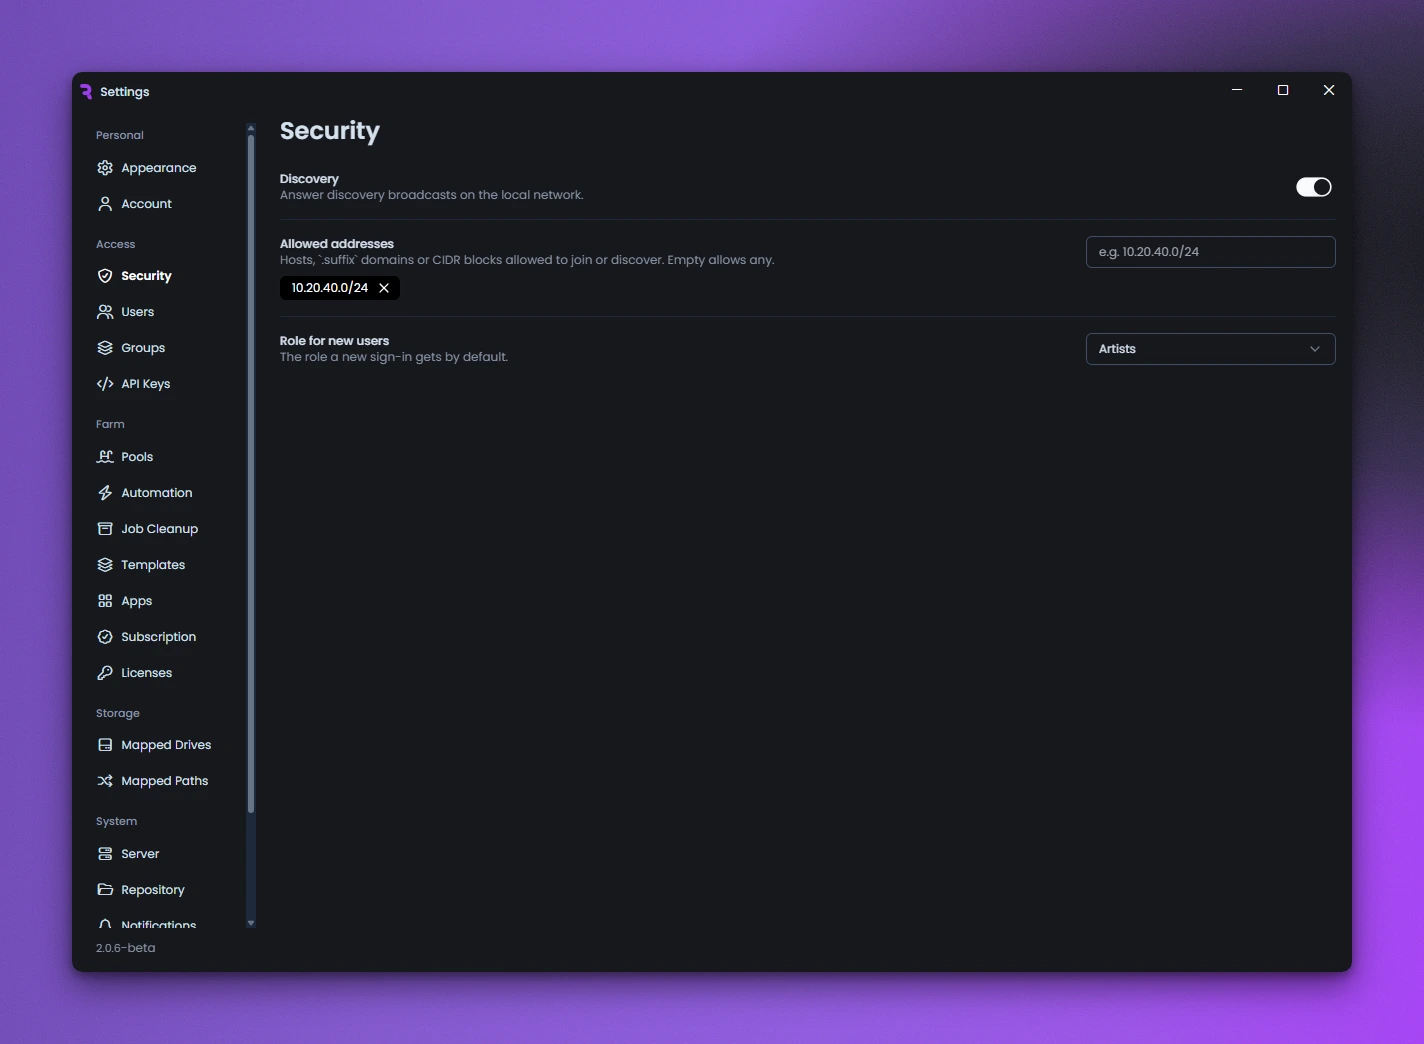
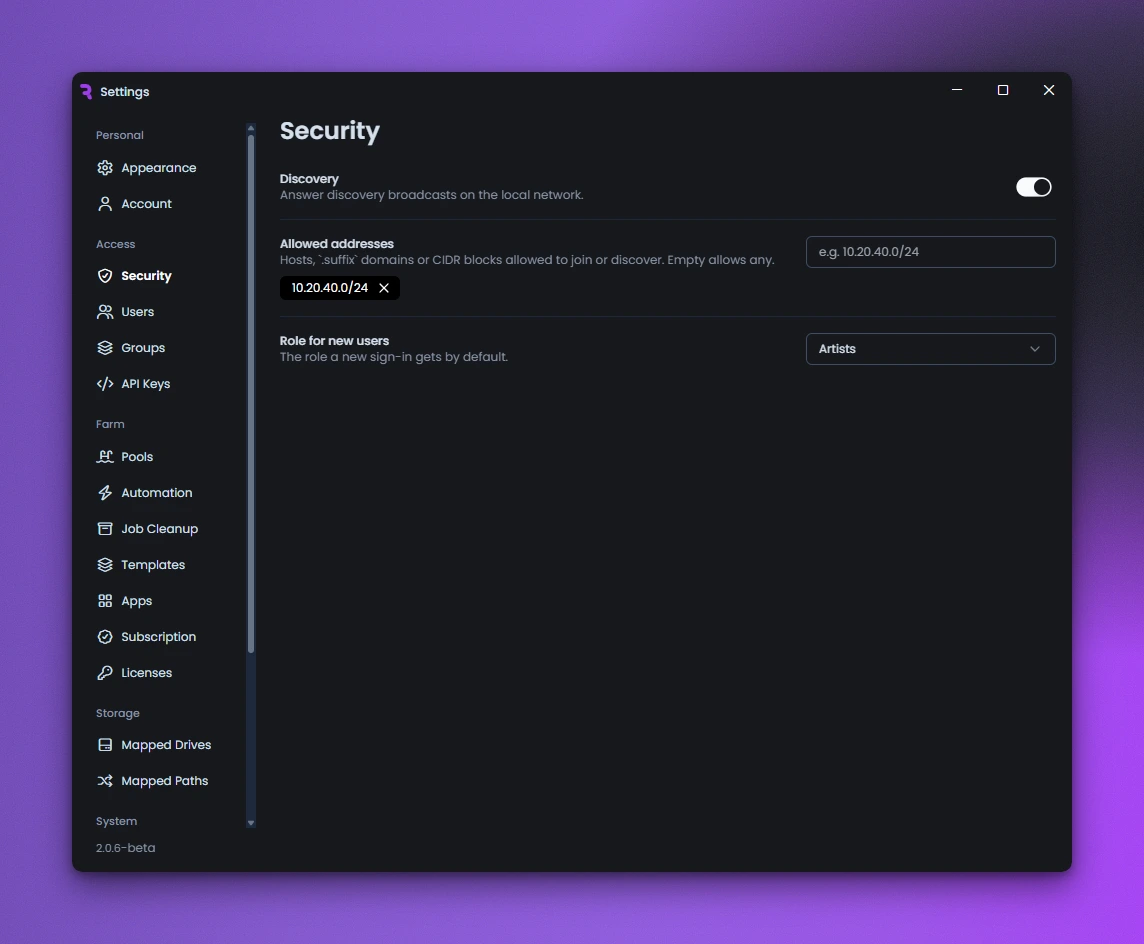
added offline licensing guide

diff --git a/renderflow/v2/getting-started/offline-licensing.md b/renderflow/v2/getting-started/offline-licensing.md
@@ -1,0 +1,129 @@
+---
+title: "Offline Licensing"
+description: "License a RenderFlow server that has no internet access with a license file from Pulze."
+"og:title": "RenderFlow Offline Licensing"
+"og:description": "Run a RenderFlow farm in an air-gapped network with a signed license file instead of a Pulze account sign-in."
+"twitter:title": "RenderFlow Offline Licensing"
+keywords: ['render farm offline license', 'air-gapped render farm', 'render farm without internet', 'RenderFlow license file', 'offline activation render farm', 'RenderFlow Enterprise license']
+---
+
+Offline licensing runs a RenderFlow server with no route to the internet. Instead of signing in to a Pulze account, the server holds a license file from Pulze that lists its seats and the machine it was issued for. Offline licensing is part of RenderFlow Enterprise. [Contact support](mailto:support@pulze.io) to set it up for your studio.
+
+Only the server holds the license. Render nodes and workstations join the server as usual and take their seats from it.
+
+## What you need
+
+- RenderFlow installed on the server, with the service stopped.
+- A terminal on the server: an administrator PowerShell on Windows, or the account the RenderFlow service runs as on Linux and macOS.
+
+## Request a license
+
+<Steps>
+<Step title="Create the request file">
+
+Run `rfsv license request` on the server.
+
+<Tabs>
+<Tab title="Windows">
+
+```powershell
+& "C:\Program Files\Pulze\RenderFlow\rfsv.exe" license request
+```
+
+</Tab>
+<Tab title="Linux">
+
+```bash
+/opt/Pulze/RenderFlow/rfsv license request
+```
+
+</Tab>
+<Tab title="macOS">
+
+```bash
+/Applications/Pulze/RenderFlow/rfsv license request
+```
+
+</Tab>
+</Tabs>
+
+RenderFlow writes `renderflow-<machine name>.req` to the current folder and prints the machine name, hardware ID and network adapter that the license will be issued for.
+
+<Frame caption="A license request created on the server">
+  <img src="/images/renderflow/v2/rf_cli_license_request.webp" alt="A terminal after rfsv license request, showing the path of the request file and the machine name, hardware ID and network adapter it was created for" />
+</Frame>
+
+</Step>
+<Step title="Send the request to Pulze">
+
+Email the `.req` file to [support@pulze.io](mailto:support@pulze.io). Pulze sends back a license file, `renderflow-<machine name>.lic`.
+
+</Step>
+</Steps>
+
+## Apply the license
+
+<Steps>
+<Step title="Import the license file">
+
+With the service stopped, run `rfsv license import` with the file Pulze sent you, for example on Linux:
+
+```bash
+/opt/Pulze/RenderFlow/rfsv license import renderflow-render-server.lic
+```
+
+RenderFlow prints `Licence applied` with your studio's name and the number of seats. While the service is running, the command refuses and points you to **Settings → Subscription** instead.
+
+</Step>
+<Step title="Check the license">
+
+Run `rfsv license status`. It prints the customer, the seats, the license ID and the expiry date.
+
+<Frame caption="The license applied and its status">
+  <img src="/images/renderflow/v2/rf_cli_license_import.webp" alt="A terminal showing rfsv license import reporting the license applied for Northlight VFX with 30 seats, followed by rfsv license status reporting a valid license and its expiry date" />
+</Frame>
+
+</Step>
+<Step title="Start the server">
+
+Start the RenderFlow service, or open the desktop app on the server. The setup wizard no longer asks you to sign in to Pulze, and the nodes that join take their seats from the license.
+
+</Step>
+</Steps>
+
+## Renew the license
+
+When Pulze sends you a new license file, open **Settings → Subscription** on the server, press **Apply license** and choose the `.lic` file. The service applies it straight away, with no restart.
+
+The **Offline** panel shows the seats the license holds, how many are in use, how many are free and when the license expires.
+
+<Frame caption="An offline license in Settings → Subscription">
+  <img src="/images/renderflow/v2/rf_settings_subscription_offline.webp" alt="The Subscription settings page showing the Offline panel with 30 seats, 0 in use, 30 free and an expiry date, with the Apply license and Remove license buttons" />
+</Frame>
+
+**Grace period.** A license keeps working for 30 days after its expiry date, and during those 30 days the **Offline** panel shows a warning with the expiry date. The server checks the license when it starts and once a day after that, and the first check after the grace period has ended stops it handing out seats: every machine stops rendering until a new license is applied.
+
+**Upgrades.** A license can carry a maintenance period. A RenderFlow release built after that period ends does not accept the license, so ask Pulze for a renewed license before you upgrade the server past it.
+
+## Replacing the server's hardware
+
+The license is issued for the server's hardware ID together with its machine name or its network adapter. Renaming the server, or replacing its network card, keeps the license working as long as the other one stays the same. A new motherboard or a new server machine needs a new license: run `rfsv license request` on that machine and send the new request to Pulze.
+
+## Switch back to a Pulze account
+
+To license the farm through a Pulze account again, open **Settings → Subscription**, press **Remove license** and confirm with **Remove**.
+
+<Frame caption="Removing the offline license">
+  <img src="/images/renderflow/v2/rf_settings_subscription_remove.webp" alt="The confirmation dialog for removing the offline license, explaining that every machine stops rendering until the server signs in to a Pulze account and its licenses are synced" />
+</Frame>
+
+<Warning>
+Every machine stops rendering until the server signs in under **Settings → Account** and its licenses are synced. From then on the server needs access to `*.pulze.io`, see [Internet access](/renderflow/v2/getting-started/requirements#internet-access).
+</Warning>
+
+With the service stopped, `rfsv license remove` does the same from a terminal.
+
+## Next steps
+
+- [System Requirements](/renderflow/v2/getting-started/requirements): ports, firewall and internet access
+- [Run as a Service](/renderflow/v2/getting-started/run-as-a-service): start the server on boot

diff --git a/renderflow/v2/getting-started/requirements.md b/renderflow/v2/getting-started/requirements.md
@@ -105,7 +105,27 @@ Only the server needs internet access; render nodes and workstations do not.
 
 Blocking `*.renderflow.com` costs you two optional conveniences and nothing more: email notifications sent through Pulze's relay, and the AI agent features. Slack, Teams, Discord and webhook notifications go straight to those services, and an email channel pointed at your own SMTP server is unaffected.
 
-RenderFlow can also run in a sealed environment with no route to the internet at all, on **offline licensing**. If that is your situation, [contact support](mailto:support@pulze.io) and we will set you up.
+### Behind a proxy
+
+Point the server at your proxy with `--proxy-host` and `--proxy-port` when you install it, adding `--proxy-user` and `--proxy-pass` if the proxy asks for credentials, and `--proxy-bypass` for internal hosts that must not go through it. [Silent Deployment](/renderflow/v2/getting-started/silent-deploy#installer-flags) lists every flag.
+
+**A proxy that inspects HTTPS.** Many corporate proxies decrypt HTTPS traffic and re-sign it with the company's own certificate authority. RenderFlow does not trust that authority on its own, so the server cannot reach Pulze and its log shows:
+
+```
+Failed to resolve https://backend.pulze.io, attempt 2/2: [GET] 'https://backend.pulze.io': unable to get local issuer certificate
+```
+
+Give RenderFlow your company's CA certificate as a PEM file with `--tls-ca`. RenderFlow trusts it in addition to the public certificate authorities, for every HTTPS connection it makes:
+
+```powershell
+renderflow-2.0.0-windows-x64.exe --proxy-host=proxy.studio --proxy-port=3128 --tls-ca=C:\certs\studio-ca.pem
+```
+
+**Saving the settings.** The installer saves its flags, so the service uses them every time it starts. Flags given to `rfsv` itself apply to that run only. To change the settings of a machine that is already installed, stop the service and run `rfsv config` with the new values, for example `rfsv config --tls-ca=C:\certs\studio-ca.pem`, then start the service again.
+
+### No internet access
+
+RenderFlow can also run in a sealed environment with no route to the internet at all, on **offline licensing**, which is part of RenderFlow Enterprise. See [Offline Licensing](/renderflow/v2/getting-started/offline-licensing).
 
 ## Next steps
 

diff --git a/renderflow/v2/getting-started/silent-deploy.md b/renderflow/v2/getting-started/silent-deploy.md
@@ -34,7 +34,7 @@ The same flags work on every platform.
 | `--tls` | Serve all farm communication over HTTPS. Needs `--tls-cert` and `--tls-key` |
 | `--tls-cert=<path>` | Server certificate (PEM) |
 | `--tls-key=<path>` | Its private key (PEM) |
-| `--tls-ca=<path>` | CA to validate the server against, when it is not publicly trusted |
+| `--tls-ca=<path>` | CA certificate to trust for HTTPS: a private server certificate, or a proxy that re-signs TLS |
 | `--tls-port=<port>` | Port of the HTTPS listener, default 44445. Server only |
 | `--server-tls` | The server answers over TLS, which `--server=https://host` also says. Node and workstation only |
 
@@ -61,6 +61,12 @@ A node behind a proxy:
 
 ```powershell
 renderflow-2.0.0-windows-x64.exe --silent --accept-eula --type=node --server=render01 --proxy-host=proxy.studio --proxy-port=3128
+```
+
+A server behind a proxy that inspects HTTPS, with the company's CA certificate. See [Behind a proxy](/renderflow/v2/getting-started/requirements#behind-a-proxy) for the error this fixes:
+
+```powershell
+renderflow-2.0.0-windows-x64.exe --silent --accept-eula --type=server --repository=\\NAS\renderflow --proxy-host=proxy.studio --proxy-port=3128 --tls-ca=C:\certs\studio-ca.pem
 ```
 
 <Warning>

diff --git a/skill.md b/skill.md
@@ -3,7 +3,7 @@ name: pulze
 description: Pulze documentation for Scene Manager, RenderFlow, and Project Dream. Use when answering questions about Pulze products, render farm management, scene organization in 3ds Max, distributed rendering, job submission, node management, or the RenderFlow API.
 metadata:
   author: pulze
-  version: "1.3"
+  version: "1.4"
 ---
 
 # Pulze Documentation
@@ -136,6 +136,7 @@ RenderFlow 2 is in beta. Paths without a version prefix (`/renderflow/...`) docu
 - Server and Nodes: /renderflow/v2/getting-started/server-and-nodes
 - Silent Deployment: /renderflow/v2/getting-started/silent-deploy
 - Run as a Service: /renderflow/v2/getting-started/run-as-a-service
+- Offline Licensing (Enterprise, a server with no internet access): /renderflow/v2/getting-started/offline-licensing
 - Migrating (from RenderFlow 1 or Render Manager): /renderflow/v2/getting-started/migrating
 - Changelog: /renderflow/v2/changelog
 
